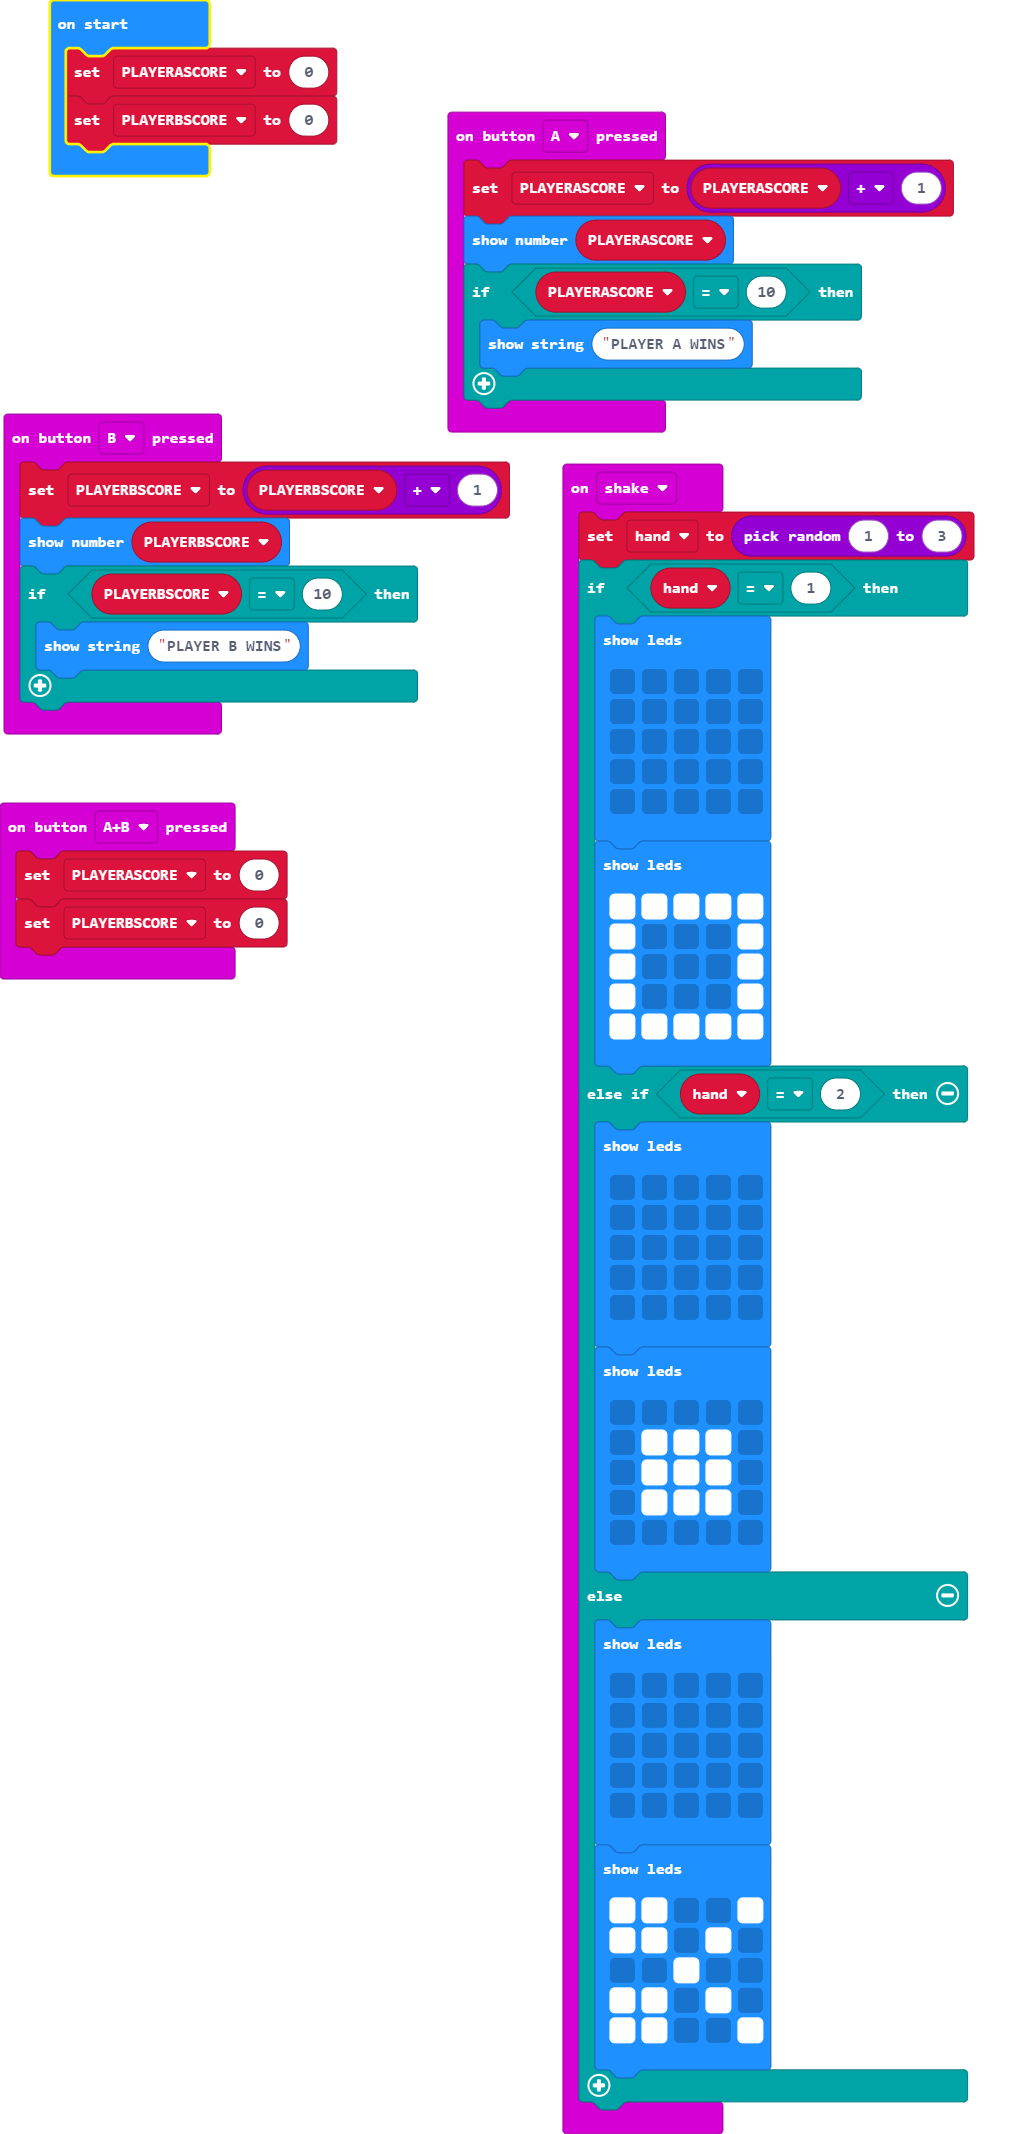
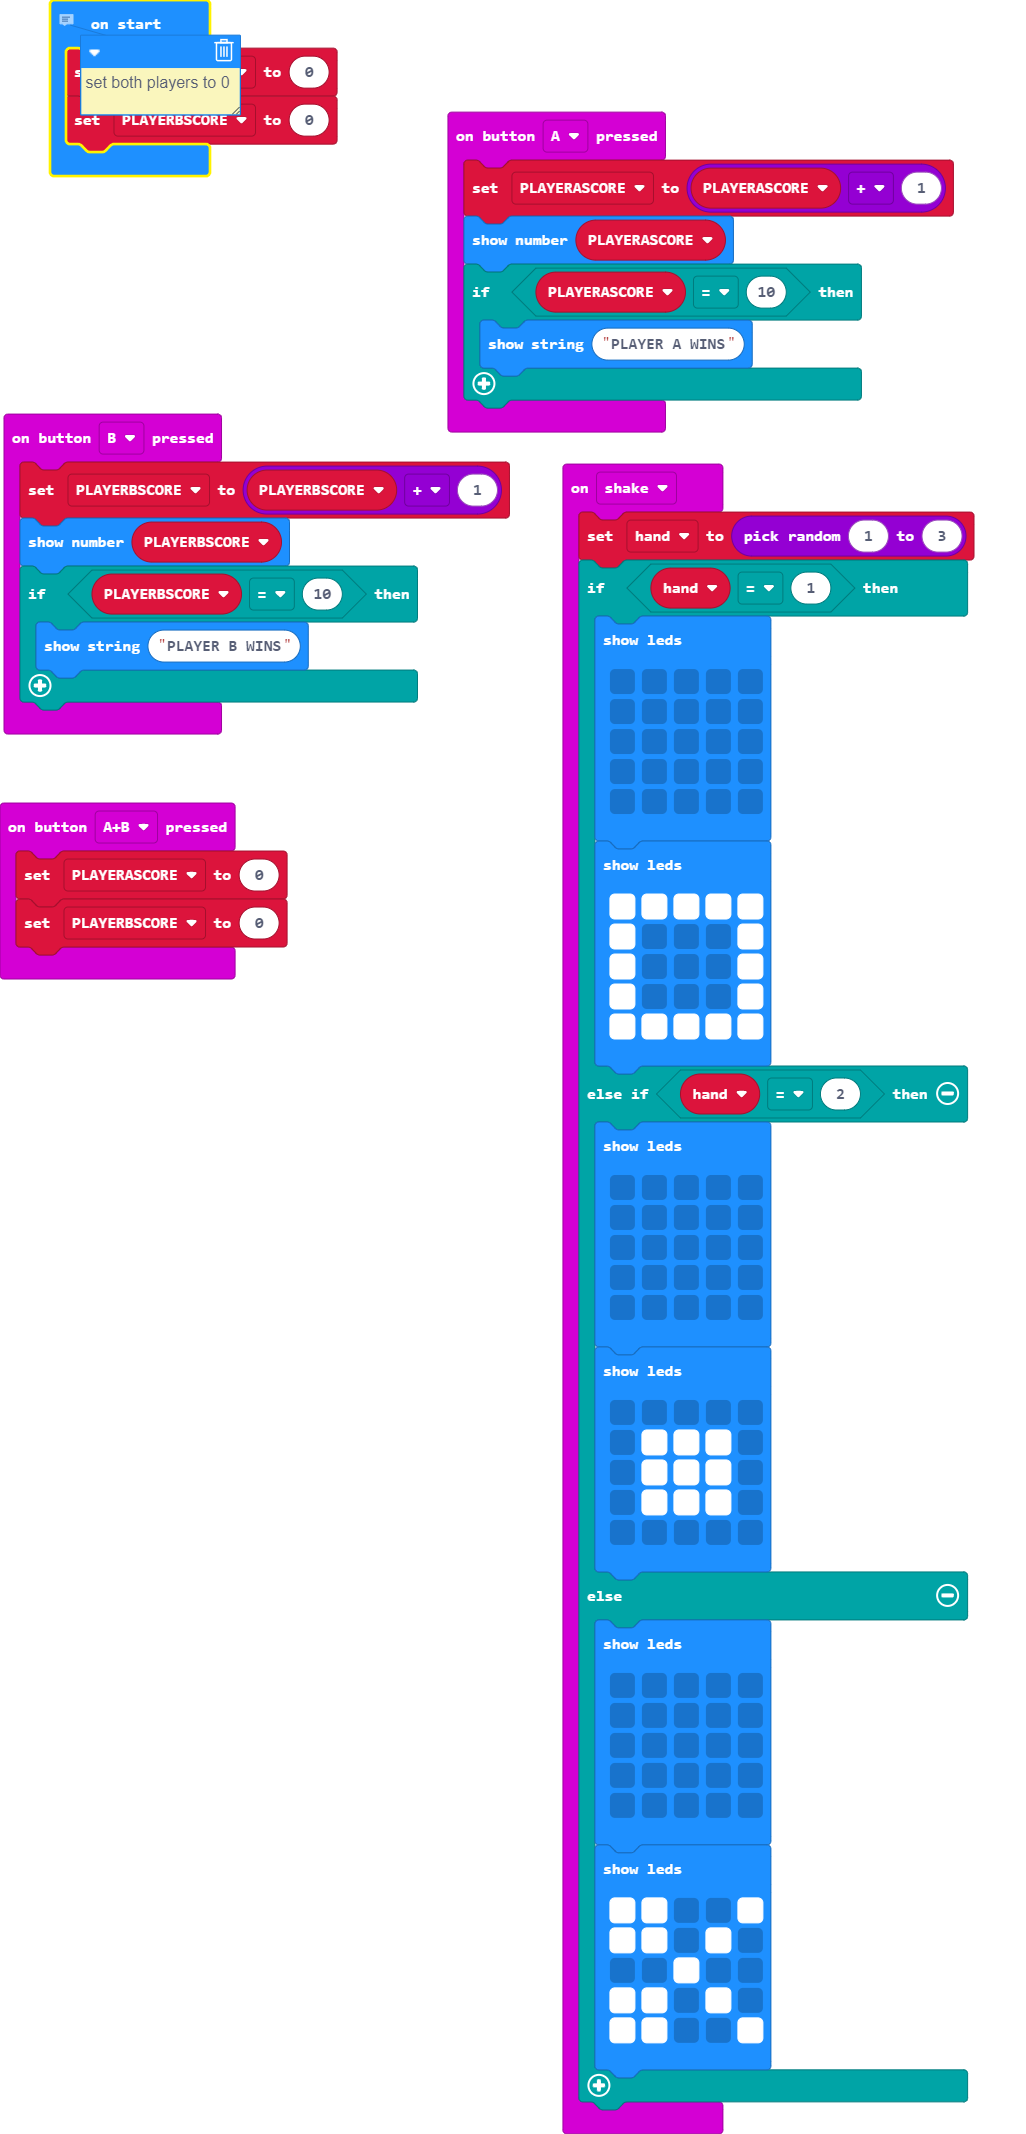
Update main.blocks, main.ts

Changed region(s): [[0.0624, 0.0, 0.2495, 0.0619]]

diff --git a/main.ts b/main.ts
@@ -65,6 +65,7 @@ input.onGesture(Gesture.Shake, function () {
             `)
     }
 })
+// set both players to 0
 let hand = 0
 let PLAYERBSCORE = 0
 let PLAYERASCORE = 0
